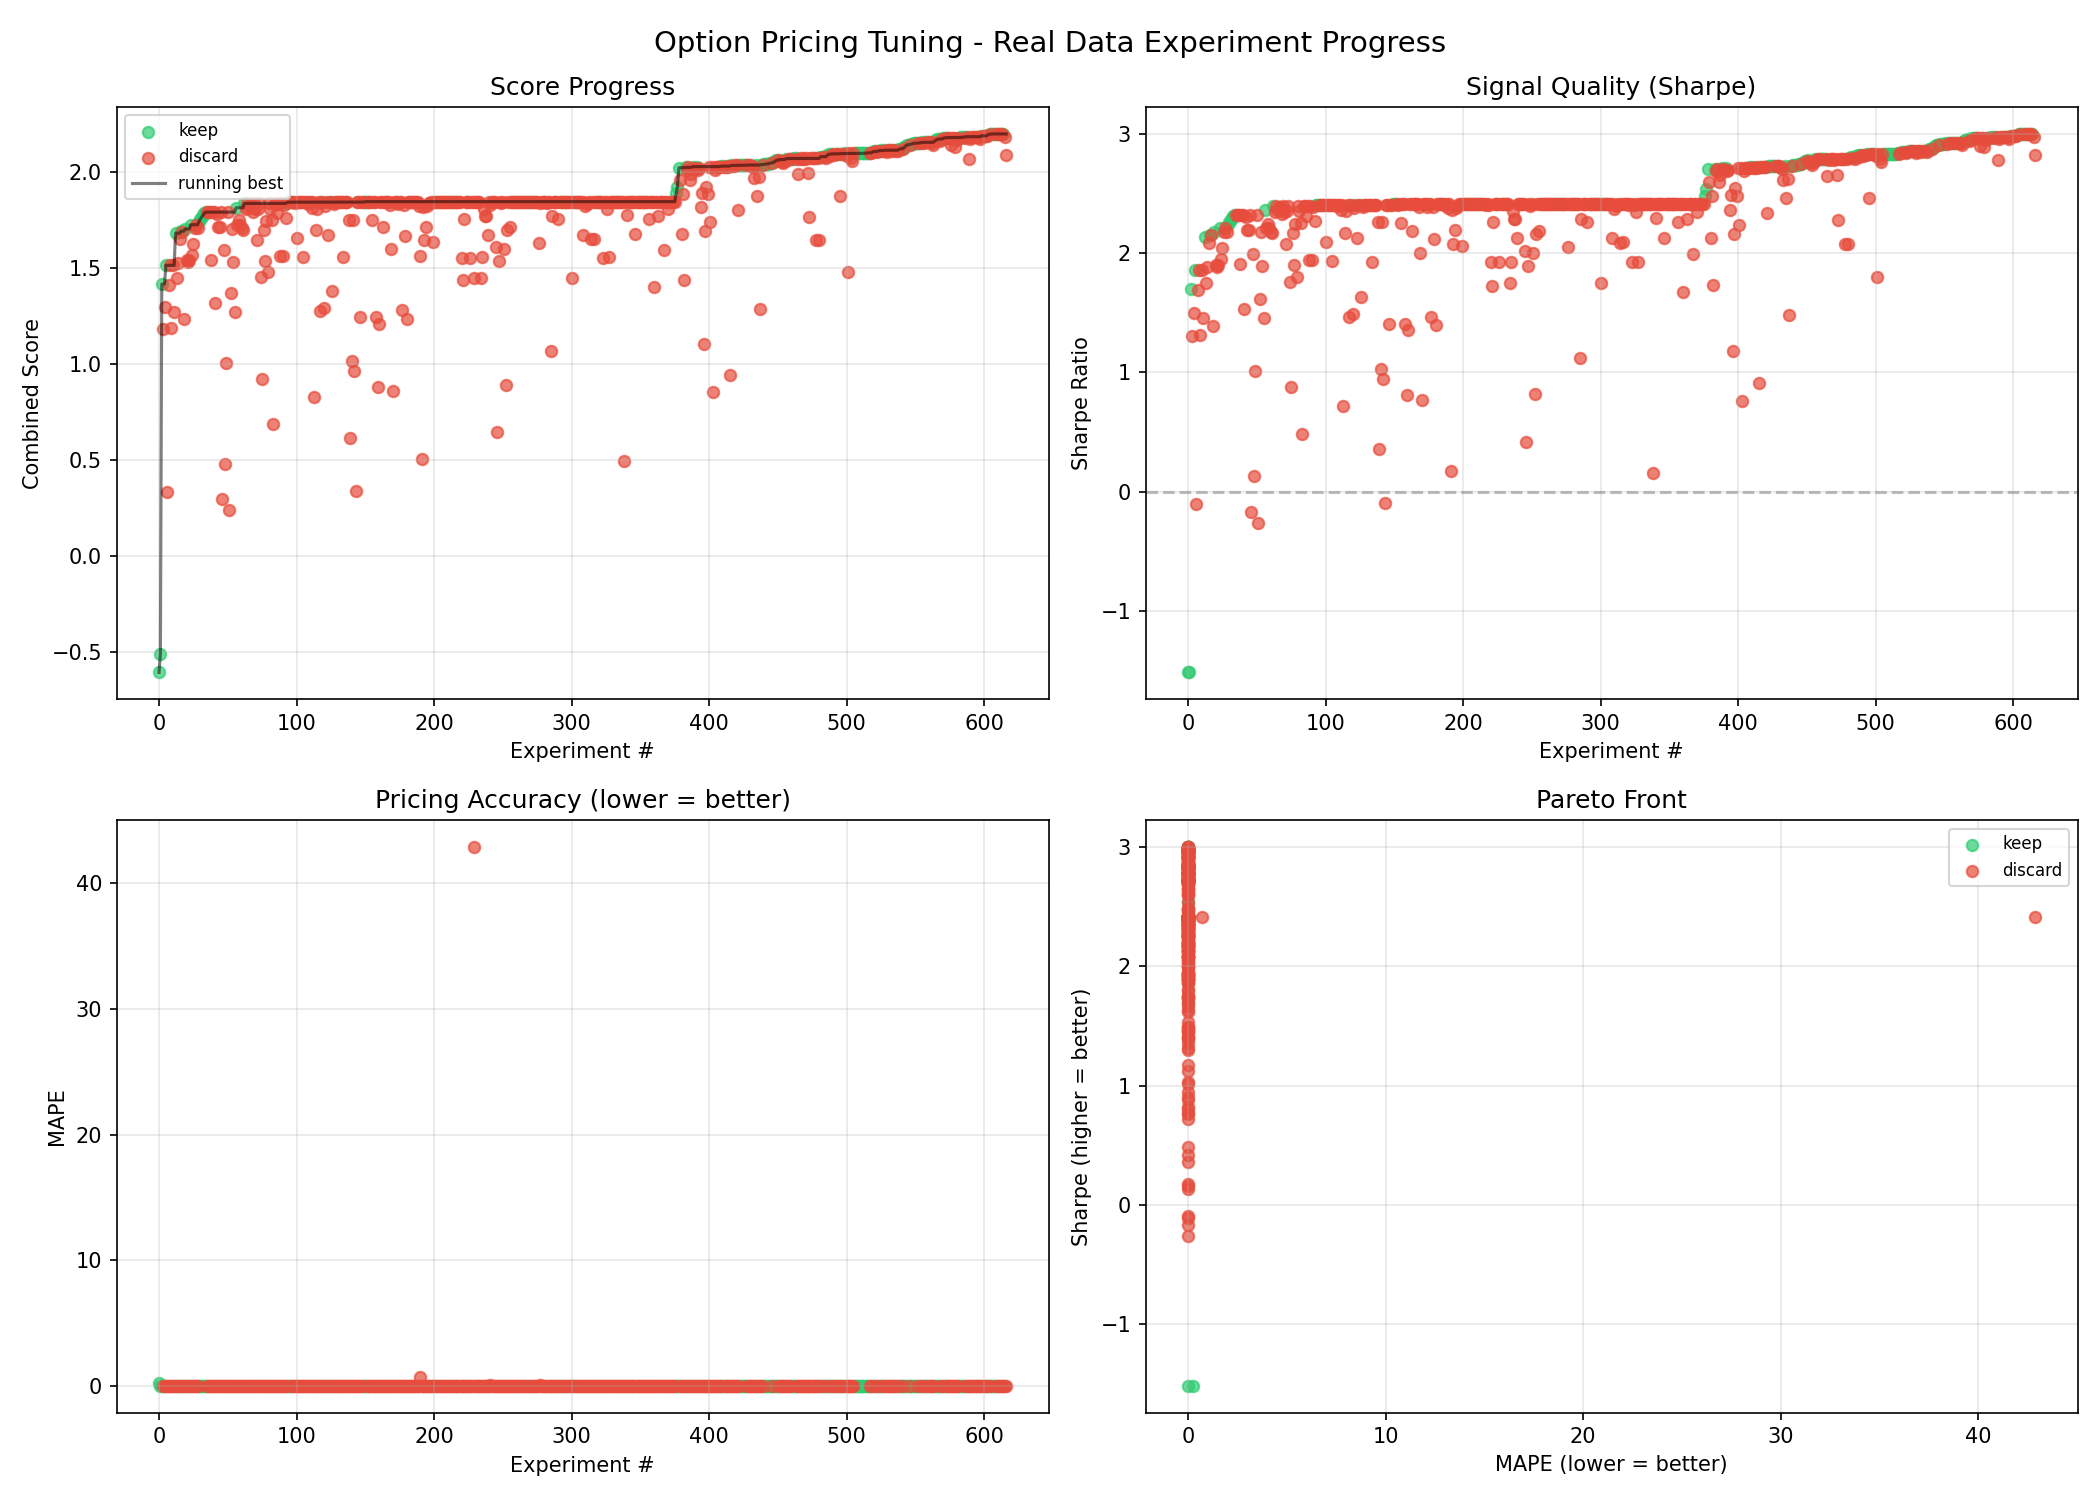
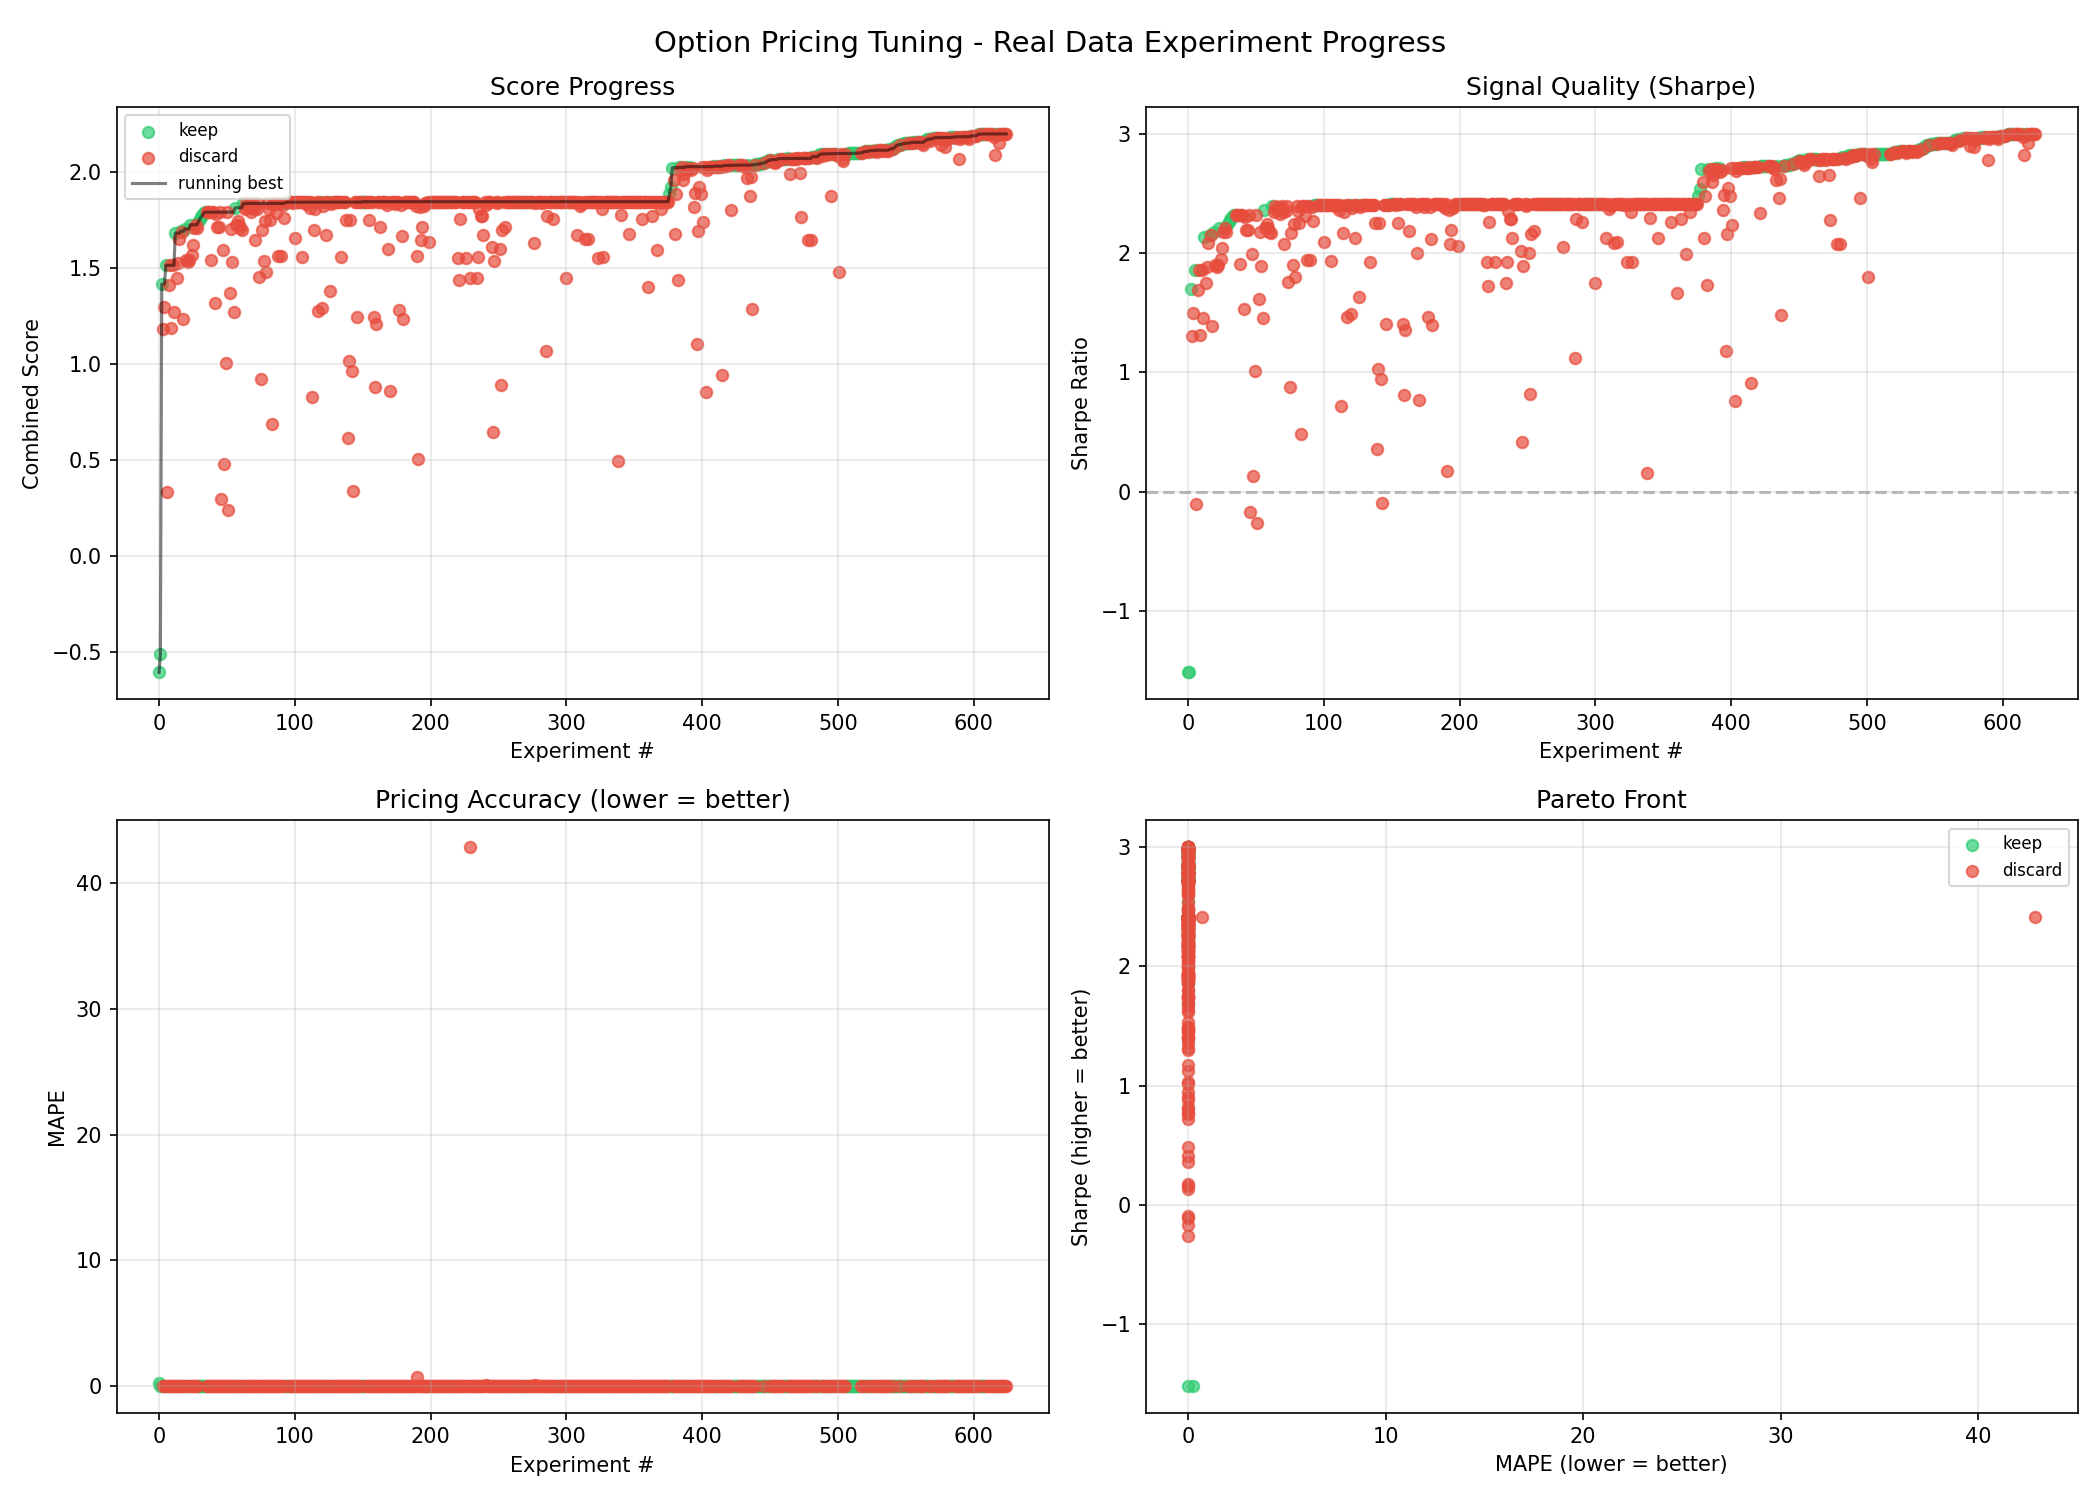
log exp625

diff --git a/README.md b/README.md
@@ -9,12 +9,12 @@ signals using **real stock market data** from Yahoo Finance.
 
 | Metric | Value |
 |---|---|
-| Combined Score | 2.1991 |
-| Sharpe Ratio | 2.9998 |
+| Combined Score | 2.1992 |
+| Sharpe Ratio | 3.0001 |
 | MAPE | 0.002003 |
 | Win Rate | 92.6% |
 | Trades | 27 |
-| Experiments | 617 (127 kept) |
+| Experiments | 625 (128 kept) |
 
 ## How It Works
 
